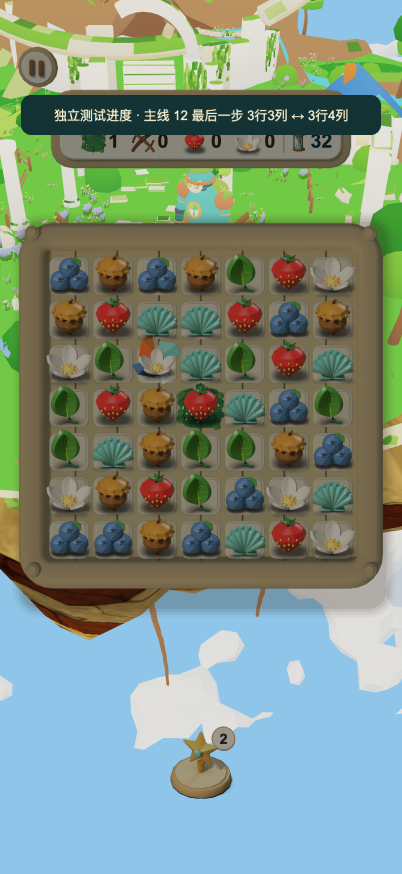
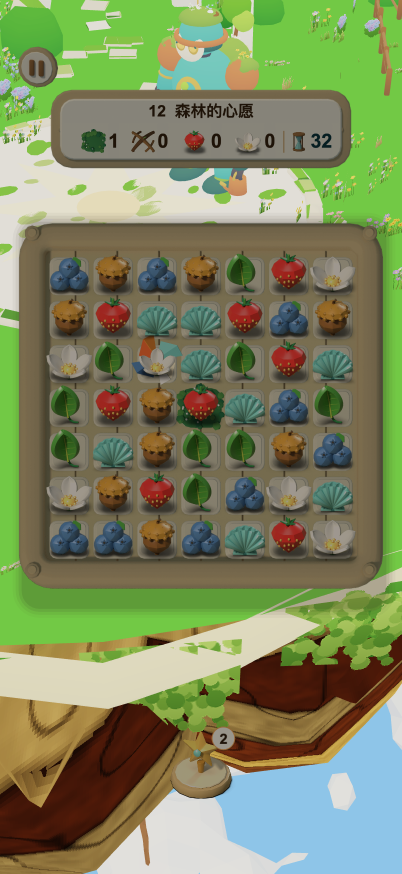
Frame the sky-city gardener so the hat, visor, and can read as separate shapes.

diff --git a/creator-build-project/assets/scripts/region/SkycityBoardPose.ts b/creator-build-project/assets/scripts/region/SkycityBoardPose.ts
@@ -2,10 +2,11 @@ import type { AuthoredPose } from '../world-r1/CameraPose';
 /** Rest world position of anchor_robot_root in env_skycity.glb. The board camera
  * keeps this offset so a floating-island bob does not lose the robot. */
 export const SKYCITY_ROBOT_REST: readonly [number, number, number] = [3.6, -0.07, 28.2];
-/** Phone portrait 402×874. The eye sits in front of the robot, above the floating rock.
- * The hat and visor fall in the open strip under the debug banner, the watering can
- * stays above the tray, and the cloud layer fills the open ground below it. */
-const PORTRAIT: AuthoredPose = { position: [1.26, 20.49, 68.76], target: [3.29, -14.43, 28.57], fovVerticalDeg: 64 };
+/** Phone portrait 402×874. The eye is in front of the robot, close enough that the
+ * hat brim, the visor, and the watering can are separate shapes. The hat and visor
+ * sit above the goal chips, the can sits in the gap above the tray, and the cloud
+ * sea stays in the open area below the tray. */
+const PORTRAIT: AuthoredPose = { position: [1.3, 17.87, 62], target: [3.29, -12.13, 28.57], fovVerticalDeg: 46 };
 const LANDSCAPE: AuthoredPose = { position: [48, 28, 150], target: [4, -8, 20], fovVerticalDeg: 52 };
 export function skycityBoardPose(aspect: number): AuthoredPose {
   if (!Number.isFinite(aspect) || aspect <= 0) throw Error('Invalid skycity aspect');
